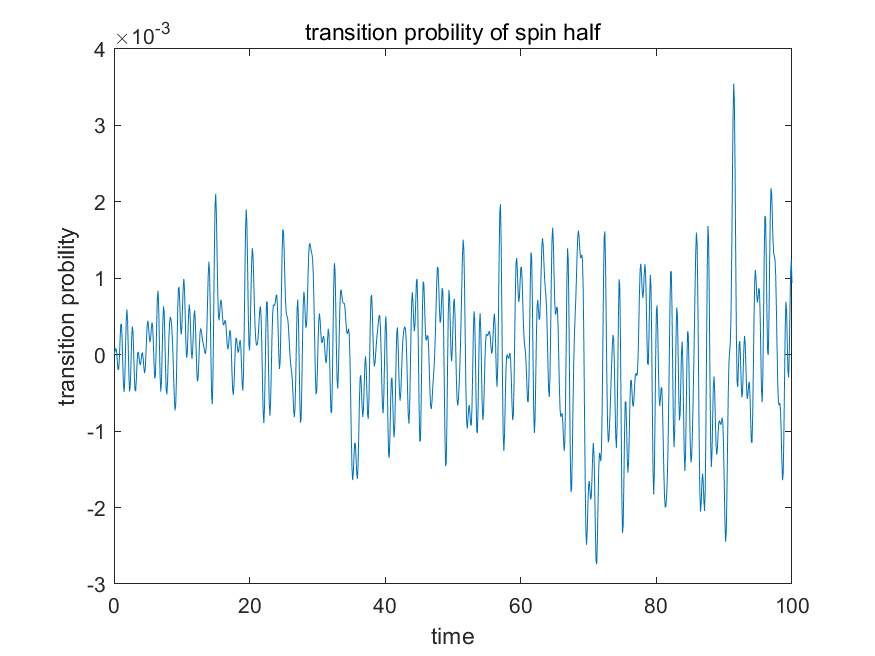
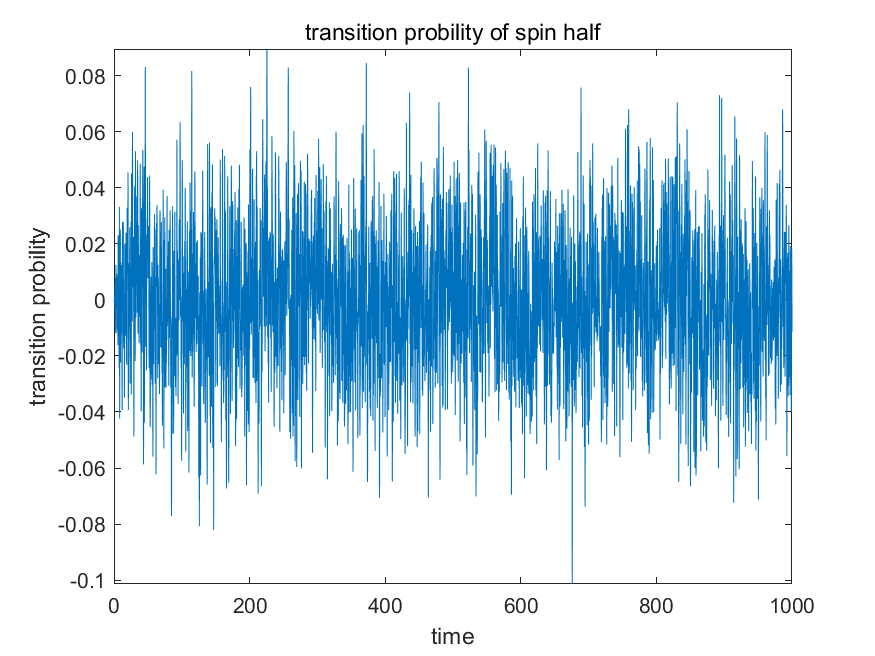
Fix bugs
Fix a wrong index

diff --git a/spin_half.m b/spin_half.m
@@ -9,10 +9,10 @@ sigma_x = [ 0 1; 1 0];
 I = eye(2);
 H = zeros(len,len);
 % h = h0.*[1 0.8 0.6 0.4 -0.4 -0.6 -0.8 -1];
-h = h0.*[1 0.75 0.5 0.25 -0.25 -0.5 -0.75 -1];
-% h = h0.*[1 1 1 1 -1 -1 -1 -1];
+% h = h0.*[1 0.75 0.5 0.25 -0.25 -0.5 -0.75 -1];
+h = h0.*[1 1 1 1 -1 -1 -1 -1];
 dt = 0.1;
-t = 0:dt:100;
+t = 0:dt:1000;
 
 % pos=1单独赋值
 H1 = sigma_z;
@@ -48,7 +48,7 @@ H2 = sigma_x;
 for j = 2:L
     H2 = kron(H2,I);
 end
-H = H + h(i).*H2;
+H = H + h(1).*H2;
 
 for i = 2:L
     H2 = I;

diff --git a/spin_int.m b/spin_int.m
@@ -9,8 +9,9 @@ sigma_x = [ 0 1 0; 1 0 1; 0 1 0].*sqrt(2);
 I = eye(3);
 H = zeros(len,len);
 % h = h0.*[1 0.8 0.6 0.4 -0.4 -0.6 -0.8 -1];
-h = h0.*[1 0.75 0.5 0.25 -0.25 -0.5 -0.75 -1];
-% h = h0.*[1 1 1 1 -1 -1 -1 -1];
+% h = h0.*[1 0.75 0.5 0.25 -0.25 -0.5 -0.75 -1];
+h = h0.*[1 1 1 1 -1 -1 -1 -1];
+% h = h0.*[1 -1];
 dt = 1;
 t = 0:dt:1000;
 
@@ -48,7 +49,7 @@ H2 = sigma_x;
 for j = 2:L
     H2 = kron(H2,I);
 end
-H = H + h(i).*H2;
+H = H + h(1).*H2;
 
 for i = 2:L
     H2 = I;
